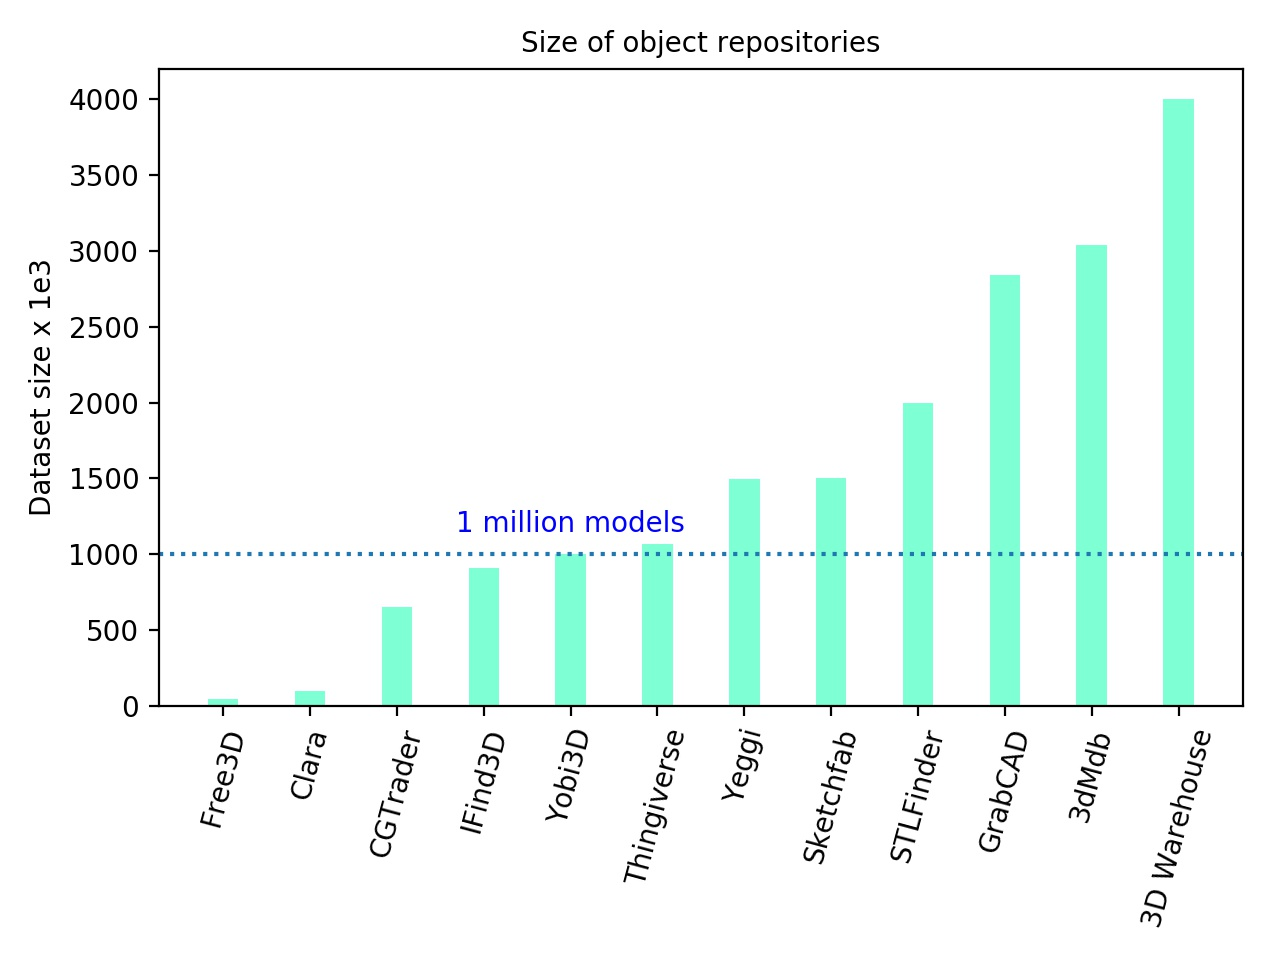
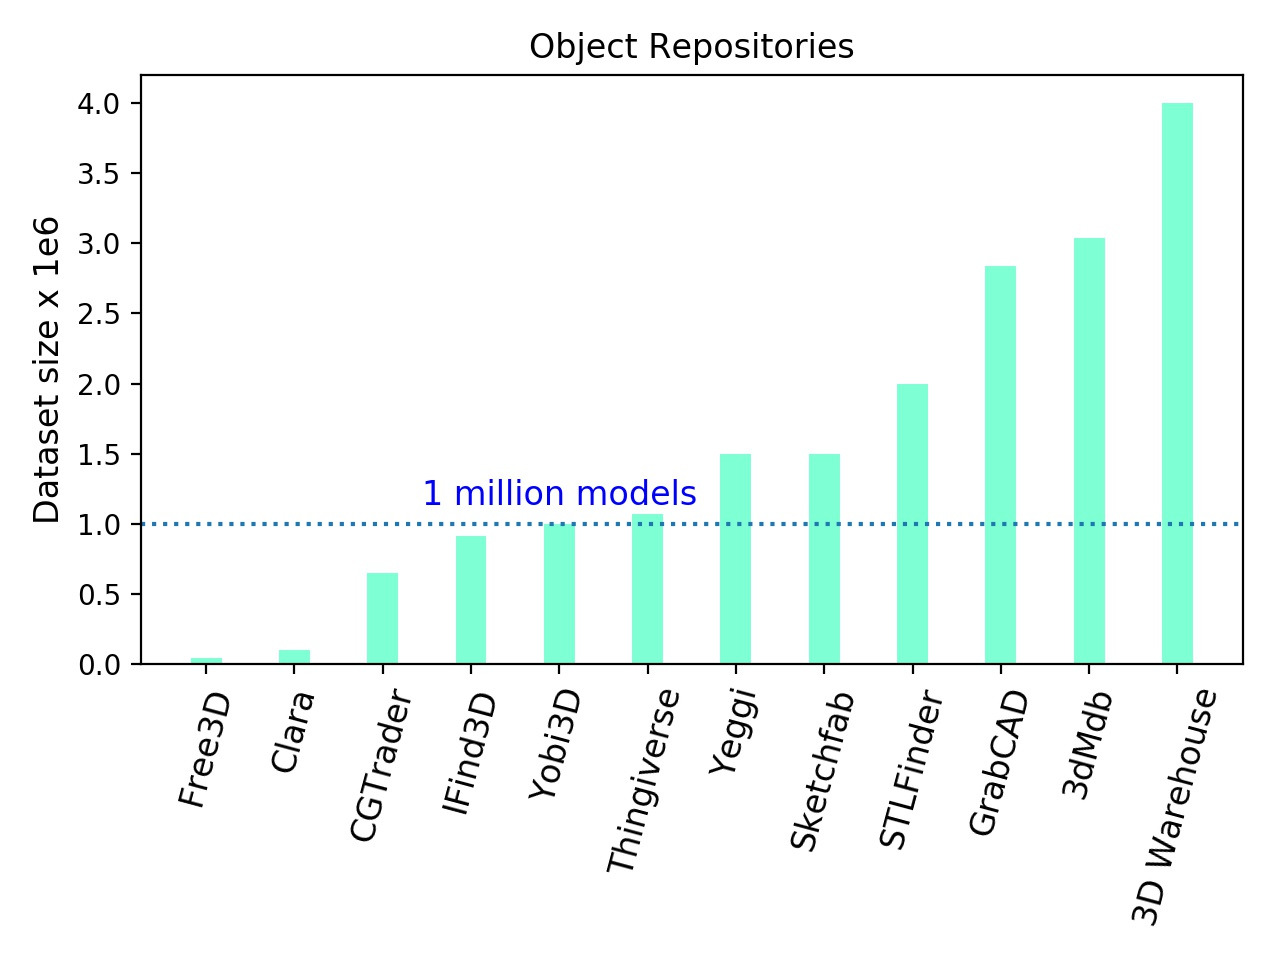
update

diff --git a/python/plot_obj_repo_size.py b/python/plot_obj_repo_size.py
@@ -29,7 +29,7 @@ dataset_dict={'3D Warehouse':4000000,
 '3Dupndown':	7800,
 '3D Orchard':	6500}
 '''
-
+'''
 dataset_dict={
         'table': 8443,
         'car': 7497,
@@ -88,7 +88,7 @@ dataset_dict={
         'cap': 56
         }
 
-
+'''
 dataset_dict = OrderedDict(sorted(dataset_dict.items(), key=lambda x: x[1]))
 
 dataset_name, datasets_size = list(dataset_dict.keys()), list(dataset_dict.values())
@@ -98,22 +98,23 @@ ind = np.arange(len(dataset_name))
 
 _fontsize =12
 
-#ax.bar(ind, np.array(datasets_size)/1000.0, width=0.35,
-#       color='aquamarine', #label='datasets'
-#       )
-
-ax.bar(ind, np.array(datasets_size), width=0.35,
+ax.bar(ind, np.array(datasets_size)/1000000.0, width=0.35,
        color='aquamarine', #label='datasets'
        )
-#ax.set_ylabel('Dataset size x 1e3', fontsize=_fontsize)
-ax.set_ylabel('Number of Instances', fontsize=_fontsize)
-ax.set_title('Number of Objects', fontsize=_fontsize)
+
+#ax.bar(ind, np.array(datasets_size), width=0.35,
+#       color='aquamarine', #label='datasets'
+#       )
+ax.set_ylabel('Dataset size x 1e6', fontsize=_fontsize)
+#ax.set_ylabel('Number of Instances', fontsize=_fontsize)
+#ax.set_title('Number of Objects', fontsize=_fontsize)
+ax.set_title('Object Repositories', fontsize=_fontsize)
 ax.set_xticks(ind)
 ax.set_xticklabels(dataset_name)
 ax.legend()
 
-#ax.axhline(y=1000,linestyle='dotted')
-#plt.text(4, 1200, '1 million models', fontsize=_fontsize, va='center', ha='center', color='blue')
+ax.axhline(y=1,linestyle='dotted')
+plt.text(4, 1.200, '1 million models', fontsize=_fontsize, va='center', ha='center', color='blue')
 
 plt.xticks(fontsize=_fontsize, rotation=75)
 
